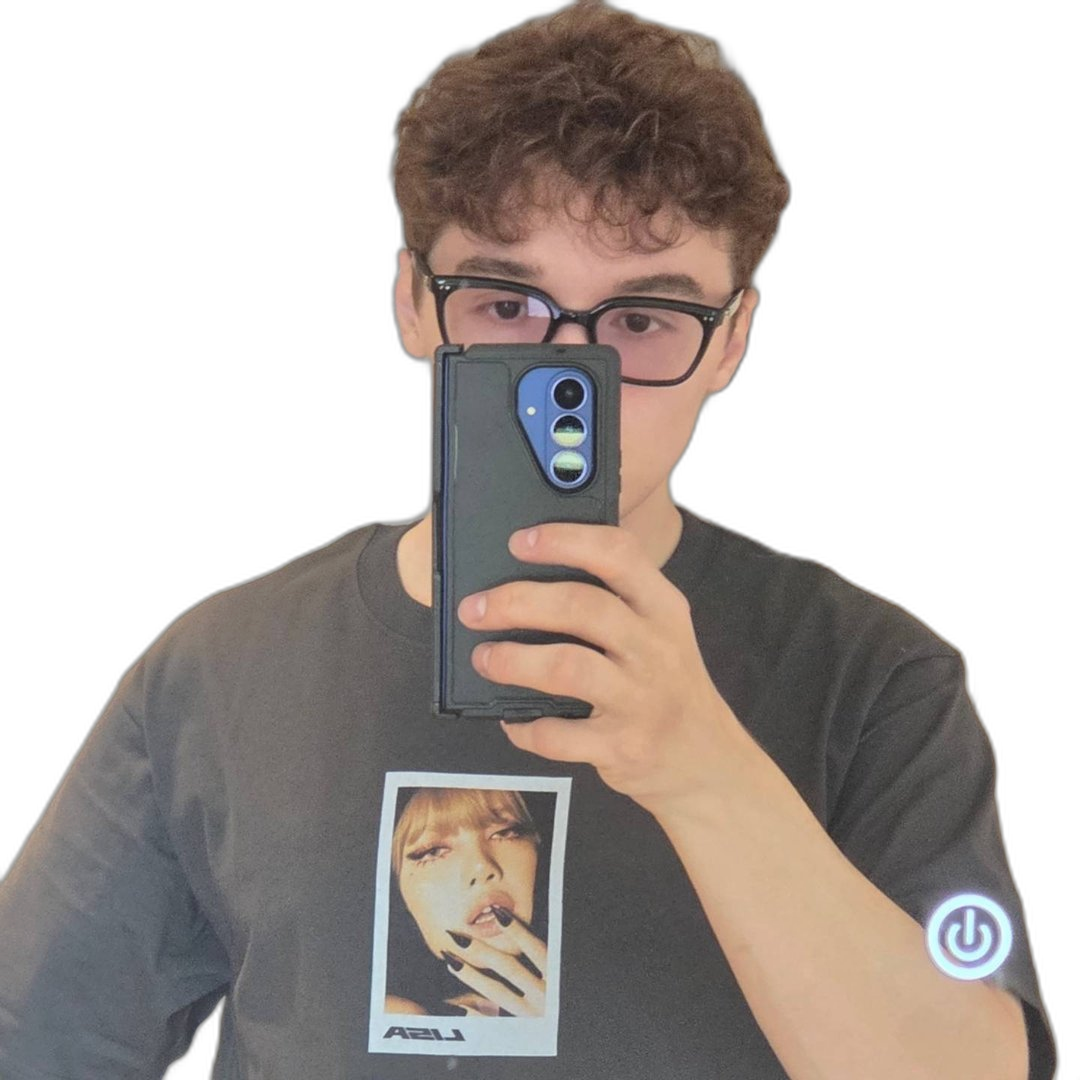
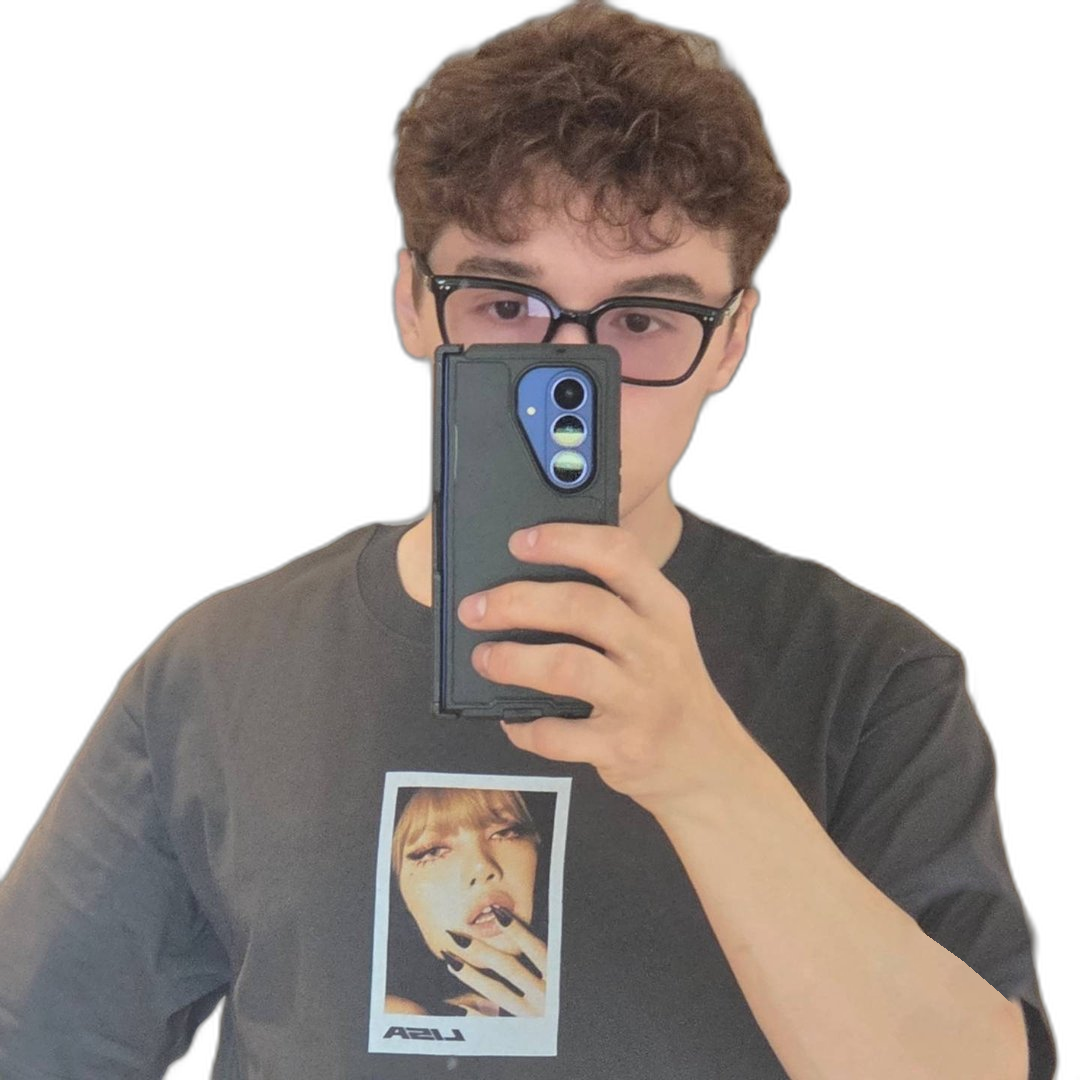
me fixed

Changed region(s): [[0.8556, 0.7944, 0.9778, 0.9472]]

diff --git a/src/pages/portfolio-pages.css b/src/pages/portfolio-pages.css
@@ -638,7 +638,7 @@
   isolation: isolate;
   width: 100%;
   aspect-ratio: 1;
-  overflow: visible;
+  overflow: hidden;
   border: 0;
   border-radius: 50%;
   background: #b10e1e;
@@ -662,11 +662,11 @@
   position: absolute;
   z-index: 1;
   right: auto;
-  bottom: calc(-2% - 5px);
-  left: 0;
+  bottom: 0;
+  left: 6%;
   display: block;
-  width: 100%;
-  height: 108%;
+  width: 88%;
+  height: 88%;
   object-fit: contain;
   object-position: center bottom;
 }
